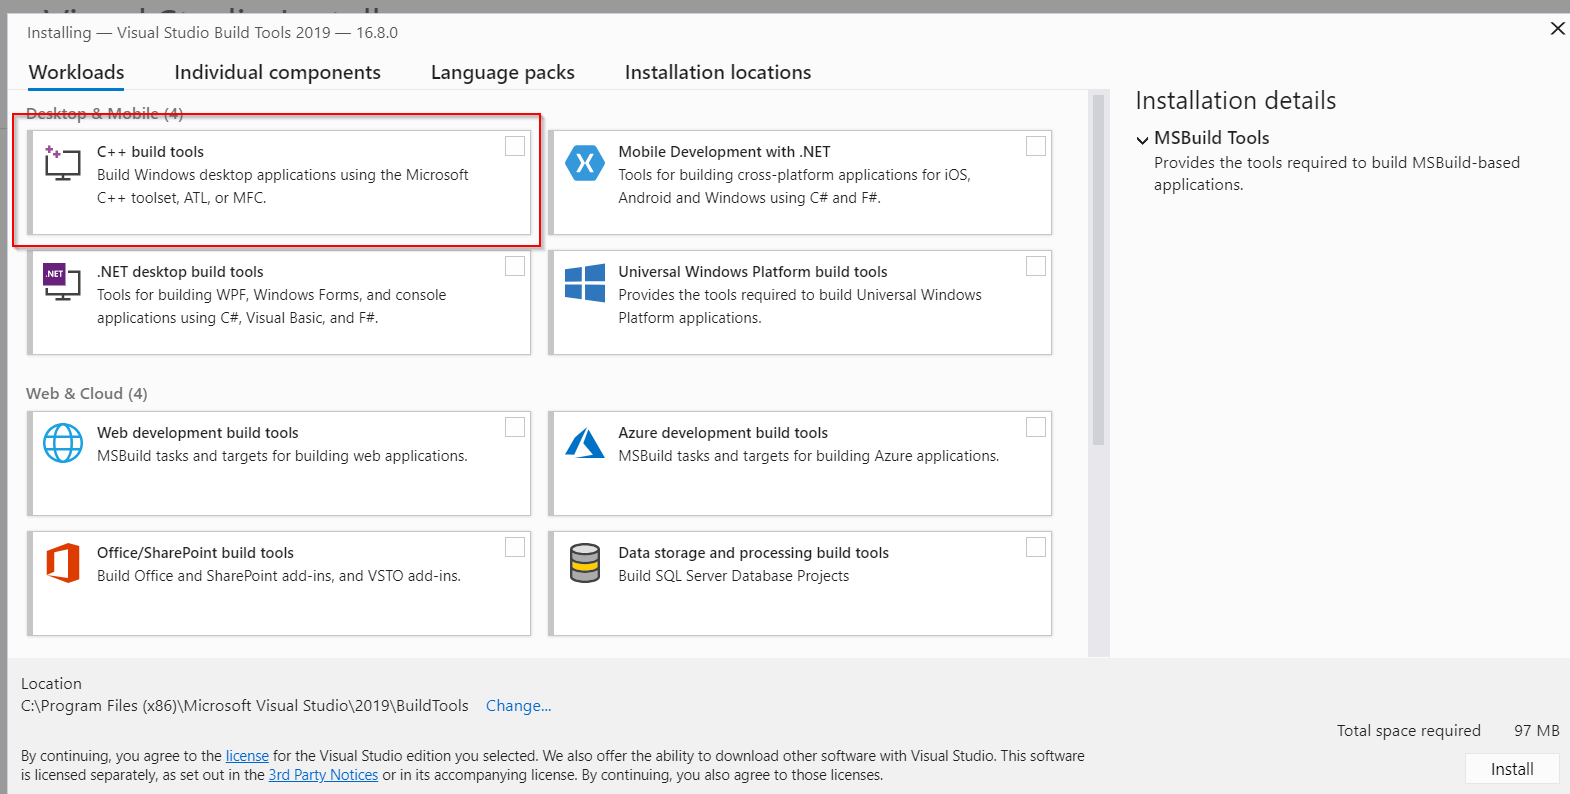
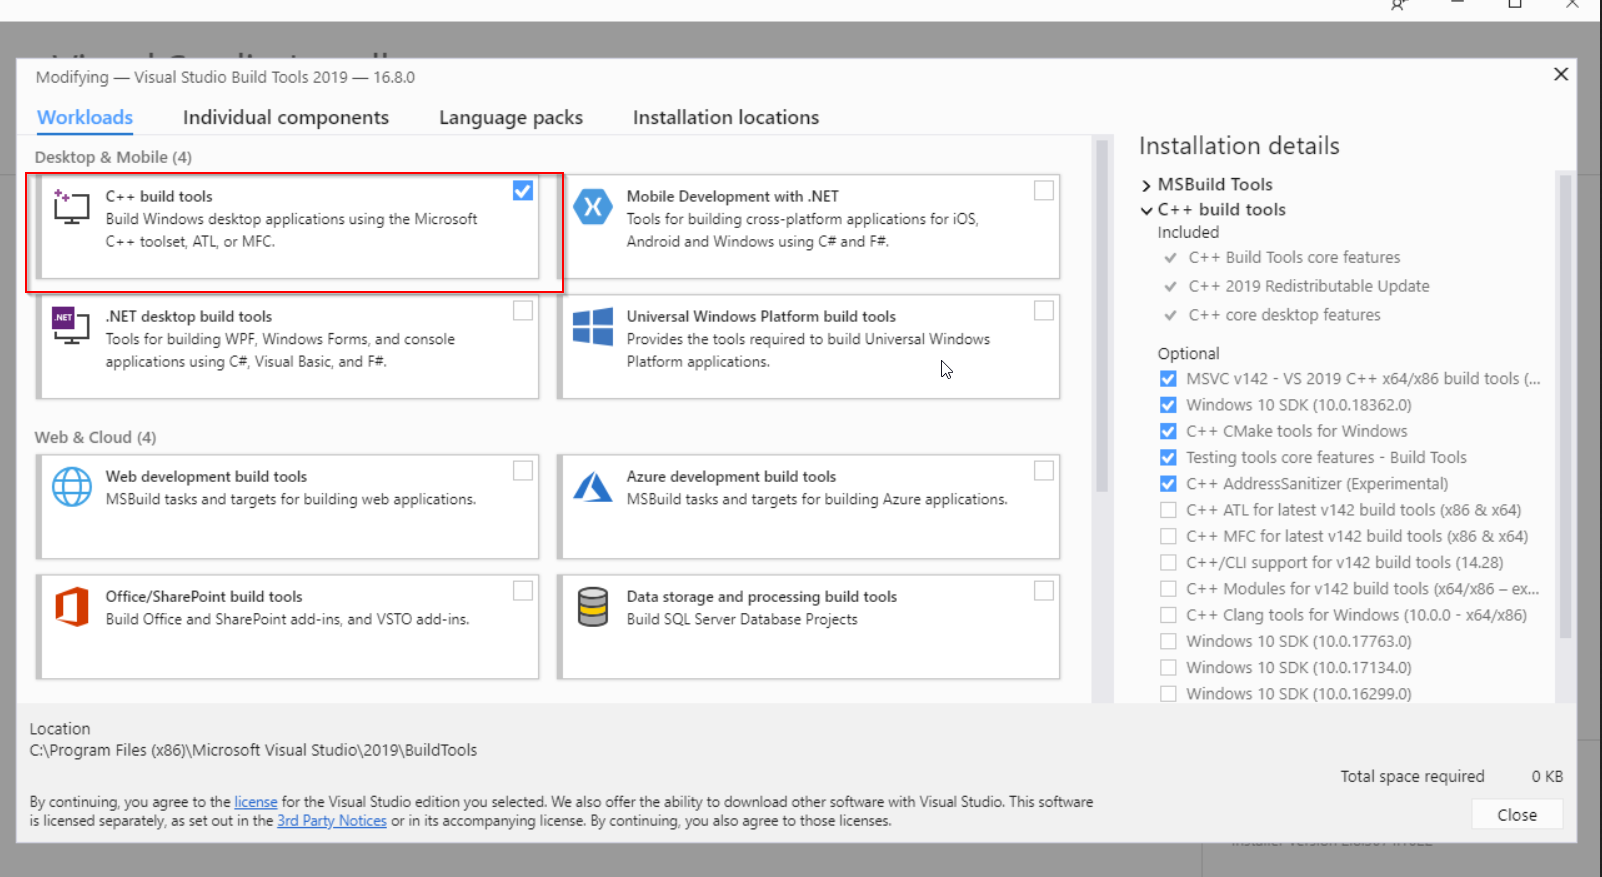
Feat : Incorporated Charlie's review comments.
Added images for Build tools and Windows defender popup.e

Changed region(s): [[0.0, 0.0, 1.0, 1.0], [0.6554, 0.665, 0.6866, 0.6952]]

diff --git a/src/pages/stacks-blockchain/running-testnet-node.md b/src/pages/stacks-blockchain/running-testnet-node.md
@@ -99,7 +99,7 @@ Before you begin, check that you have the below necessary softwares installed on
 
 - [Microsoft C++ Build Tools](https://visualstudio.microsoft.com/visual-cpp-build-tools/).
 
--> Tip: While installing the Microsoft Visual Studio Build tools using the above link, select the C++ Build tools option when prompted.
+-> **Tip**: While installing the Microsoft Visual Studio Build tools using the above link, select the C++ Build tools option when prompted.
 ![C++ Build Tools](/images/C++BuildTools.png)
 
 - [NodeJs](https://nodejs.org/en/download/).
@@ -112,7 +112,7 @@ Before you begin, check that you have the below necessary softwares installed on
 
 ### Download the Binary and run the follower node
 
--> Note: Please make sure to download the new Binary and follow the below steps as and when a [new release build](https://github.com/blockstack/stacks-blockchain/releases/latest) is available.
+-> **Note**: Please make sure to download the new Binary and follow the below steps as and when a [new release build](https://github.com/blockstack/stacks-blockchain/releases/latest) is available.
 
 First, Visit the [Stacks Github releases repo](https://github.com/blockstack/stacks-blockchain/releases/latest). From the various binary list, click to download the Windows binary.Refer the image below.
 ![BinaryList](/images/mining-windows.png)
@@ -127,7 +127,8 @@ stacks-node krypton
 # This command will start the testnet follower node.
 ```
 
--> Note : While starting the node for the first time, windows defender will pop up with a message to allow access. If so, allow access to keep on running the node.
+-> **Note** : While starting the node for the first time, windows defender will pop up with a message to allow access. If so, allow access to run the node.
+![Windows Defender](/images/windows-defender.png)
 
 To execute Stacks node with extra debugging enabled, run:
 

diff --git a/src/pages/mining.md b/src/pages/mining.md
@@ -164,7 +164,7 @@ Request BTC from faucet:
 
 We need to get some testnet BTC to that address. Grab the `btcAddress` field, and call the BTC faucet:
 
--> Note: The below command needs curl. If you are on Windows 10, version 1803 or later, your OS ships with a copy of curl, already set up and ready to use.
+-> **Note**: The below command needs curl. If you are on Windows 10, version 1803 or later, your OS ships with a copy of curl, already set up and ready to use.
 If not, [download and install curl](https://curl.se/windows/).
 
 ```bash
@@ -217,13 +217,14 @@ Now, grab your `privateKey` from earlier, when you ran the `stx make_keychain` c
 
 ### Run the miner
 
-To run your miner, run this in the command line:
+To start your miner, run this in the command line:
 
 ```bash
 stacks-node start --config=testnet-miner-conf.toml
 ```
 
--> Note : While starting the node for the first time, windows defender might pop up with a message to allow access. If so, allow access to keep on running the node.
+-> **Note** : While starting the node for the first time, windows defender might pop up with a message to allow access. If so, allow access to run the node.
+![Windows Defender](/images/windows-defender.png)
 
 Your node should start. It will take some time to sync, and then your miner will be running!
 
